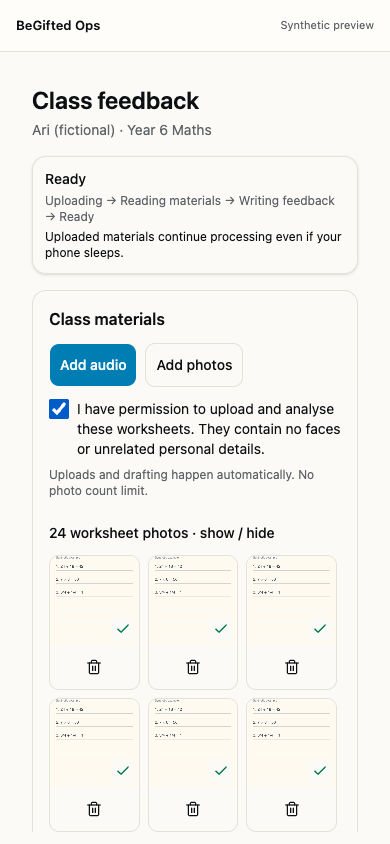
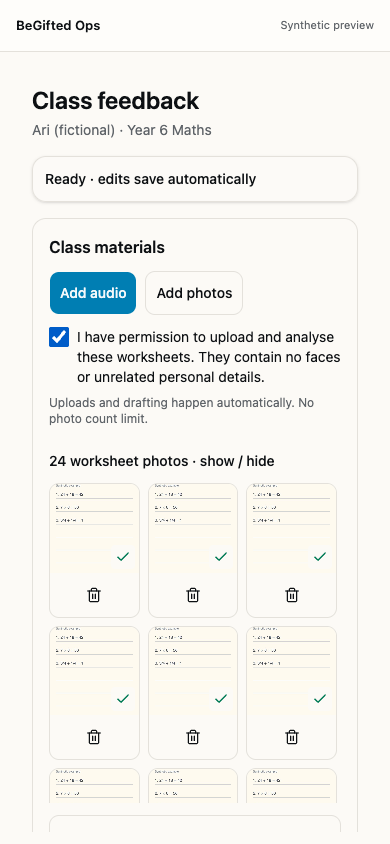
Keep completed feedback progress compact on mobile

diff --git a/src/components/class-capture/automatic-workspace.tsx b/src/components/class-capture/automatic-workspace.tsx
@@ -223,7 +223,7 @@ export function AutomaticCaptureWorkspace({ initialCapture, ownerEmail, initialF
     {error && <div role="alert" className="mb-3 rounded-xl border border-amber-300 p-3 text-sm">{error}<Button variant="ghost" className="min-h-11" onClick={() => setError(null)}>Dismiss</Button></div>}
     {!online && <p role="status" className="mb-3 text-sm">Offline. Keep this page open; queued uploads resume when connected.</p>}
     {!automatic ? <section className="rounded-xl border p-5"><h2 className="text-lg font-semibold">Automatic feedback</h2><label className="my-4 flex gap-3 text-sm"><input type="checkbox" checked={consent} onChange={e => setConsent(e.target.checked)} className="size-5 shrink-0" />I have permission for automatic private audio transcription, worksheet image analysis and feedback drafting for this class.</label><Button disabled={!consent} className="min-h-11" onClick={() => void process({ action: "consent" }).then(() => enqueue(filesRef.current)).catch(e => setError(e.message))}>Enable automatic feedback</Button><p className="mt-3 text-xs text-muted-foreground">Existing materials remain saved. Photos enter AI analysis only after this confirmation.</p></section> : <>
-      <section aria-label="Feedback progress" role="status" className="sticky top-0 z-10 mb-4 rounded-xl border bg-background/95 p-3 shadow-sm"><p className="text-sm font-medium">{recording ? "Recording · draft follows when you stop" : stage}</p><p className="mt-1 text-xs text-muted-foreground">Uploading → Reading materials → Writing feedback → Ready</p><p className="mt-1 text-xs">{uploading ? "Keep this page open until uploads finish." : "Uploaded materials continue processing even if your phone sleeps."}</p>{automatic.error && <p className="mt-2 text-sm text-amber-800">{automatic.error}</p>}{automatic.status === "attention" && <Button variant="outline" className="mt-2 min-h-11" onClick={() => void process({ action: "retry" }).catch(e => setError(e.message))}>Retry processing</Button>}</section>
+      <section aria-label="Feedback progress" role="status" className="sticky top-0 z-10 mb-4 rounded-xl border bg-background/95 p-3 shadow-sm"><p className="text-sm font-medium">{recording ? "Recording · draft follows when you stop" : stage === "Ready" ? "Ready · edits save automatically" : stage}</p>{stage !== "Ready" && <><p className="mt-1 text-xs text-muted-foreground">Uploading → Reading materials → Writing feedback → Ready</p><p className="mt-1 text-xs">{uploading ? "Keep this page open until uploads finish." : "Uploaded materials continue processing even if your phone sleeps."}</p></>}{automatic.error && <p className="mt-2 text-sm text-amber-800">{automatic.error}</p>}{automatic.status === "attention" && <Button variant="outline" className="mt-2 min-h-11" onClick={() => void process({ action: "retry" }).catch(e => setError(e.message))}>Retry processing</Button>}</section>
       <div className="grid gap-4 md:grid-cols-2"><div className="space-y-4">
 
         <section className="rounded-xl border p-4"><h2 className="font-semibold">Class materials</h2><div className="mt-3 flex flex-wrap gap-2"><Button className="min-h-11" disabled={recordCount >= 8} onClick={() => audioInput.current?.click()}>Add audio</Button><Button variant="outline" className="min-h-11" disabled={!permission} onClick={() => photoInput.current?.click()}>Add photos</Button></div>
@@ -241,7 +241,7 @@ export function AutomaticCaptureWorkspace({ initialCapture, ownerEmail, initialF
           onActiveChange={active => { if (active === recordingRef.current) return; recordingRef.current = active; setRecording(active); if (!active) void process({ action: "recording", active: false }).catch(e => setError(e.message)); }}
           onFile={file => void enqueue([file])} />
         </details>
-      </div><section className="rounded-xl border p-4" aria-label="Feedback draft"><div className="flex items-center justify-between"><h2 className="text-lg font-semibold">Feedback draft</h2><span className="text-xs text-muted-foreground" role="status">{saveStatus}</span></div>
+      </div><section className="scroll-mt-20 rounded-xl border p-4" aria-label="Feedback draft"><div className="flex items-center justify-between"><h2 className="text-lg font-semibold">Feedback draft</h2><span className="text-xs text-muted-foreground" role="status">{saveStatus}</span></div>
         {!capture.draft && <p className="my-4 text-sm text-muted-foreground">Add your class materials. Your feedback will appear here automatically.</p>}
         {automatic.proposal && <section className="my-3 rounded-lg border border-sky-200 p-3"><p className="text-sm font-medium">Updated draft available. Your edits are preserved.</p><details className="mt-2 text-sm"><summary className="min-h-11 cursor-pointer">Compare proposed feedback</summary>{Object.entries(DRAFT_LABELS).map(([k, label]) => <div key={k} className="mb-3"><strong>{label}</strong><p className="whitespace-pre-wrap">{automatic.proposal!.fields[k as keyof DraftFields]}</p></div>)}</details><Button className="min-h-11" variant="outline" onClick={() => void save().then(() => process({ action: "accept", revision: automatic.proposal!.revision, version: current.current.version })).catch(e => setError(e.message))}>Use updated draft</Button></section>}
         {(capture.draft || dirty.current > 0) && <><div className="mt-4 space-y-4">{Object.entries(DRAFT_LABELS).map(([k, label]) => <div key={k}><label htmlFor={`auto-${k}`} className="text-sm font-semibold">{label}</label><Textarea id={`auto-${k}`} value={fields[k as keyof DraftFields]} rows={3} disabled={approving} maxLength={8000} className="mt-1 text-base" onChange={e => edit(k as keyof DraftFields, e.target.value)} />{!fields[k as keyof DraftFields] && <p className="mt-1 text-xs text-muted-foreground">No supported detail yet. Add your correction if needed.</p>}</div>)}</div>
